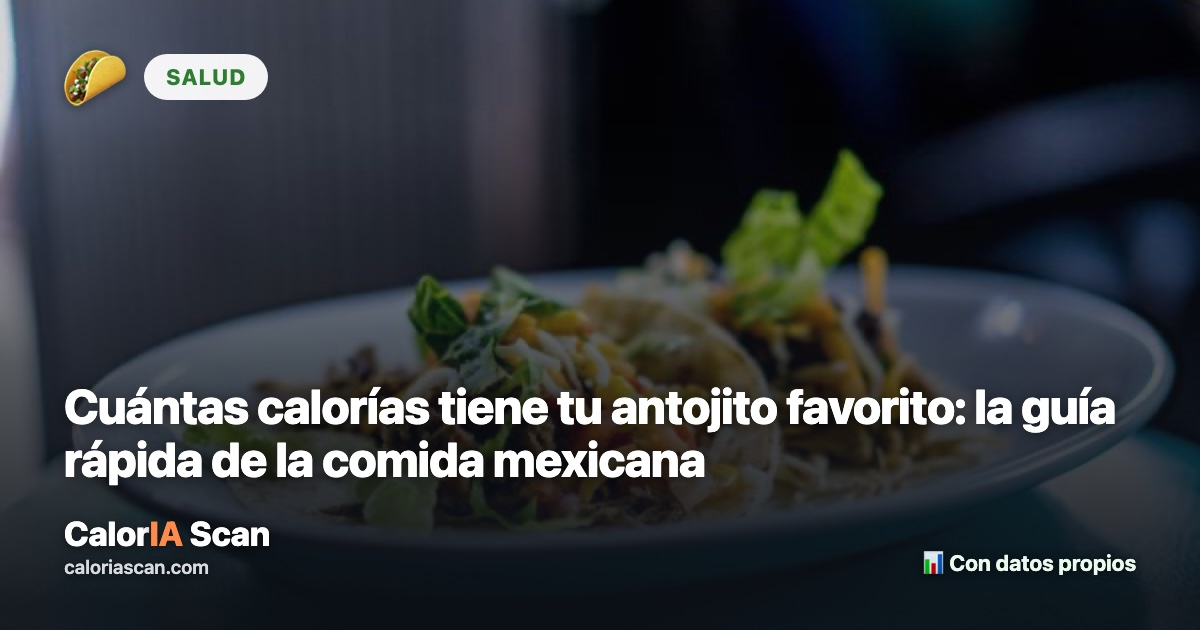
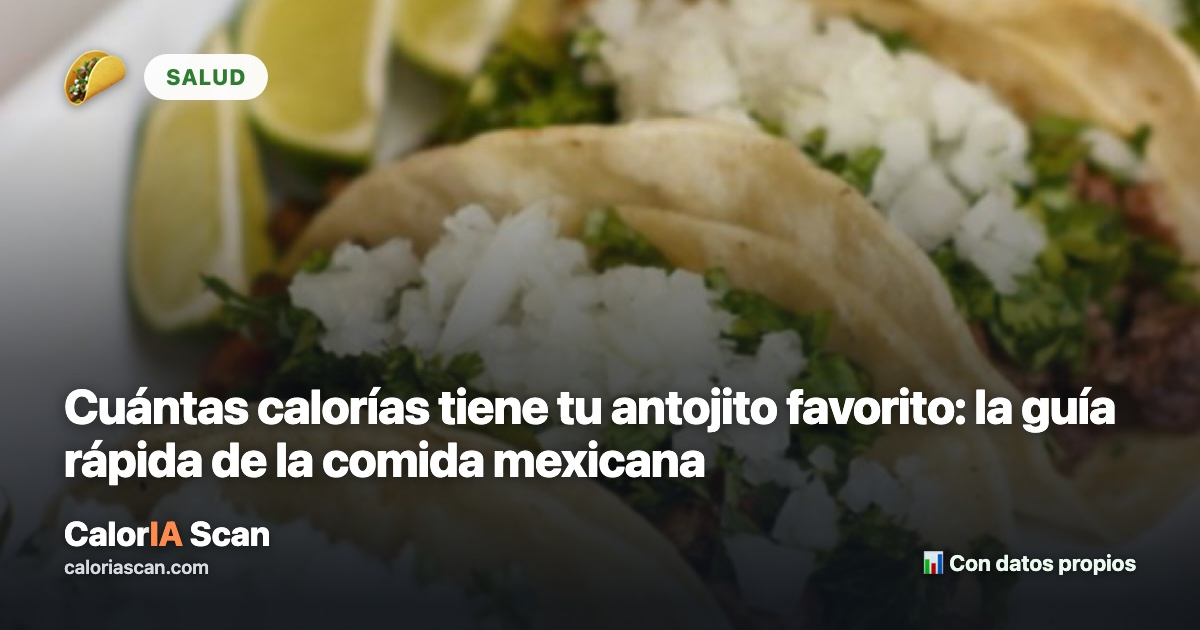
Blog: bring back the preferred taco photo, tune its crop instead
Restores the original portrait photo (lime wedges, row of tacos) the
user preferred over the landscape replacement. Since it's still
portrait against landscape-shaped containers, adds object-position:
center 62% on the hero, featured card, and OG images so the crop
favors the tacos and lime wedges rather than a plain centered crop.

diff --git a/blog/calorias-platillos-mexicanos-favoritos.html b/blog/calorias-platillos-mexicanos-favoritos.html
@@ -92,7 +92,7 @@ footer{font-size:13px;color:var(--mut);margin-top:16px}footer a{color:var(--mut)
 <h1>Cuántas calorías tiene tu antojito favorito: la guía rápida de la comida mexicana</h1>
 <p class="dek">De los tacos al pastor al mole poblano, así se comparan las calorías de los platillos que más pides — para que dejes de adivinar.</p>
 <p class="meta">Por CalorIA Scan · 22 de julio de 2026 · 2 min de lectura</p>
-<img class="hero" src="/blog/img/calorias-platillos-mexicanos-favoritos.jpg" alt="Cuántas calorías tiene tu antojito favorito: la guía rápida de la comida mexicana" width="1200" height="675" loading="eager">
+<img class="hero" src="/blog/img/calorias-platillos-mexicanos-favoritos.jpg" alt="Cuántas calorías tiene tu antojito favorito: la guía rápida de la comida mexicana" width="1200" height="675" loading="eager" style="object-position:center 62%">
 <div class="tldr"><h2>En resumen</h2><ul><li>Un mole poblano (480 kcal) puede tener más del doble de calorías que unos tacos al pastor (220 kcal) —mismo antojo mexicano, calorías muy distintas.</li><li>El tamaño de la porción cambia todo: unos chilaquiles (480 kcal) fácilmente igualan a un plato de enchiladas (420 kcal) sin que lo notes.</li><li>Estos números son promedios generales de nuestra base de datos de comida mexicana. La única forma de saber las calorías exactas de tu plato específico es escanearlo.</li></ul></div>
 <div class="kcal-compare">
 <h2>De menos a más calorías</h2>

diff --git a/blog/fetch-stock.js b/blog/fetch-stock.js
@@ -21,7 +21,7 @@ const QUERIES = {
   'sal-presion-arterial-oms': ['salt shaker table', 'coarse salt bowl', 'sea salt food'],
   'pan-integral-mito': ['whole grain bread', 'bread loaf sliced', 'bread'],
   'jugo-natural-vs-fruta': ['orange juice glass', 'fresh orange juice', 'orange juice'],
-  'calorias-platillos-mexicanos-favoritos': ['tacos plate table', 'mexican food tacos', 'mexican tacos street food'],
+  'calorias-platillos-mexicanos-favoritos': ['mexican food tacos', 'mexican tacos street food', 'tacos plate table'],
   'mitos-comida-virales': ['fresh vegetables fruits', 'healthy food table', 'fruits vegetables'],
 };
 

diff --git a/blog/index.html b/blog/index.html
@@ -171,7 +171,7 @@ footer{padding:40px 20px 28px;text-align:center;border-top:.5px solid var(--line
 <section class="featured-wrap" id="catalogo">
   <div class="eyebrow">Último artículo</div>
   <a class="featured" href="/blog/calorias-platillos-mexicanos-favoritos">
-    <div class="featured-img"><img src="/blog/img/calorias-platillos-mexicanos-favoritos.jpg" alt="Cuántas calorías tiene tu antojito favorito: la guía rápida de la comida mexicana"></div>
+    <div class="featured-img"><img src="/blog/img/calorias-platillos-mexicanos-favoritos.jpg" alt="Cuántas calorías tiene tu antojito favorito: la guía rápida de la comida mexicana" style="object-position:center 62%"></div>
     <div class="featured-body">
       <div class="badge-row">
         <span class="badge" style="color:var(--red);background:rgba(184,55,42,.10)">🌮 Salud</span>

diff --git a/en/blog/calorias-platillos-mexicanos-favoritos.html b/en/blog/calorias-platillos-mexicanos-favoritos.html
@@ -92,7 +92,7 @@ footer{font-size:13px;color:var(--mut);margin-top:16px}footer a{color:var(--mut)
 <h1>How many calories are in your favorite Mexican dish? The quick guide</h1>
 <p class="dek">From tacos al pastor to mole poblano, here's how the calories in your go-to order really compare — so you stop guessing.</p>
 <p class="meta">By CalorIA Scan · July 22, 2026 · 2 min read</p>
-<img class="hero" src="/blog/img/calorias-platillos-mexicanos-favoritos.jpg" alt="How many calories are in your favorite Mexican dish? The quick guide" width="1200" height="675" loading="eager">
+<img class="hero" src="/blog/img/calorias-platillos-mexicanos-favoritos.jpg" alt="How many calories are in your favorite Mexican dish? The quick guide" width="1200" height="675" loading="eager" style="object-position:center 62%">
 <div class="tldr"><h2>The short version</h2><ul><li>A mole poblano (480 kcal) can carry more than double the calories of tacos al pastor (220 kcal) —same Mexican craving, very different calorie counts.</li><li>Portion size changes everything: a chilaquiles plate (480 kcal) can easily match a plate of enchiladas (420 kcal) without you noticing.</li><li>These numbers are general averages from our own Mexican food database. The only way to know the exact calories in your specific plate is to scan it.</li></ul></div>
 <div class="kcal-compare">
 <h2>Lowest to highest calories</h2>

diff --git a/en/blog/index.html b/en/blog/index.html
@@ -171,7 +171,7 @@ footer{padding:40px 20px 28px;text-align:center;border-top:.5px solid var(--line
 <section class="featured-wrap" id="catalog">
   <div class="eyebrow">Latest article</div>
   <a class="featured" href="/en/blog/calorias-platillos-mexicanos-favoritos">
-    <div class="featured-img"><img src="/blog/img/calorias-platillos-mexicanos-favoritos.jpg" alt="How many calories are in your favorite Mexican dish? The quick guide"></div>
+    <div class="featured-img"><img src="/blog/img/calorias-platillos-mexicanos-favoritos.jpg" alt="How many calories are in your favorite Mexican dish? The quick guide" style="object-position:center 62%"></div>
     <div class="featured-body">
       <div class="badge-row">
         <span class="badge" style="color:var(--red);background:rgba(184,55,42,.10)">🌮 Health</span>